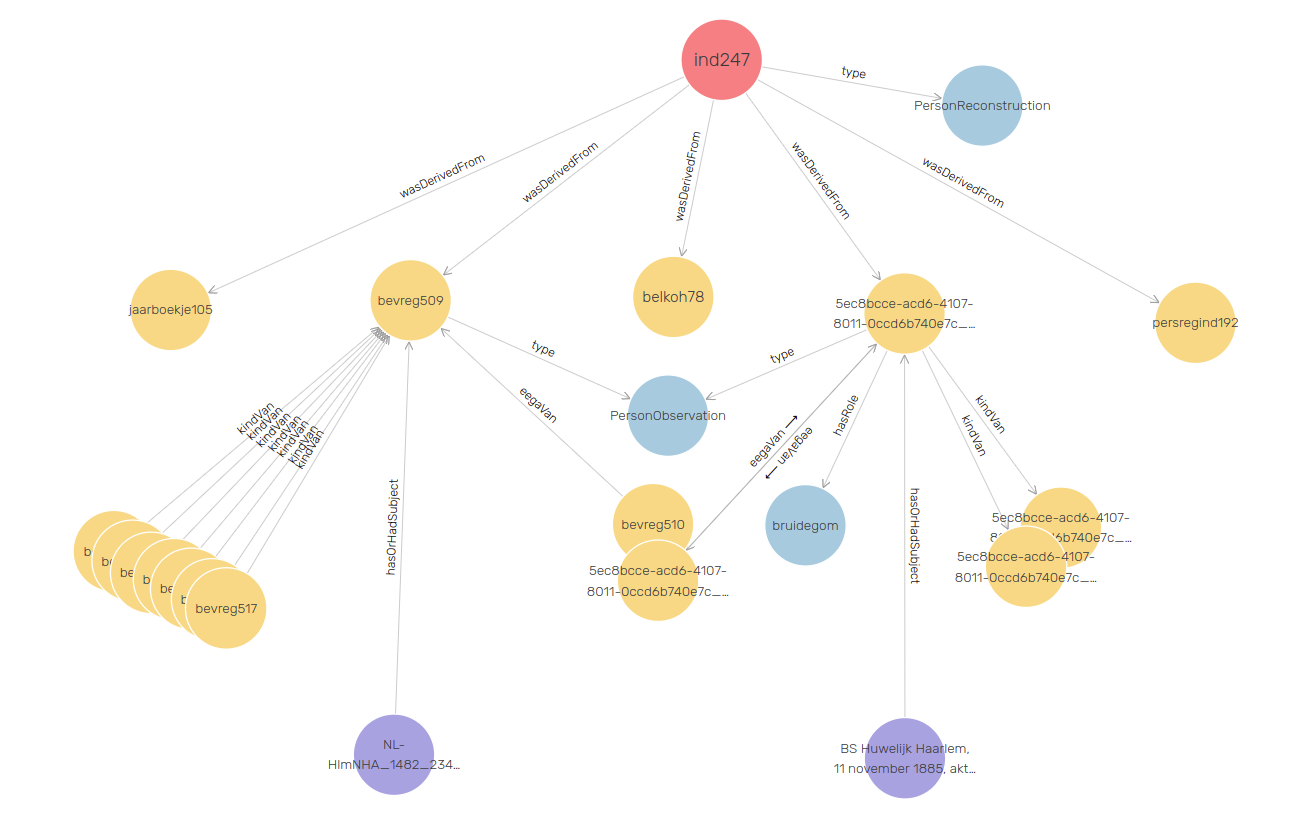
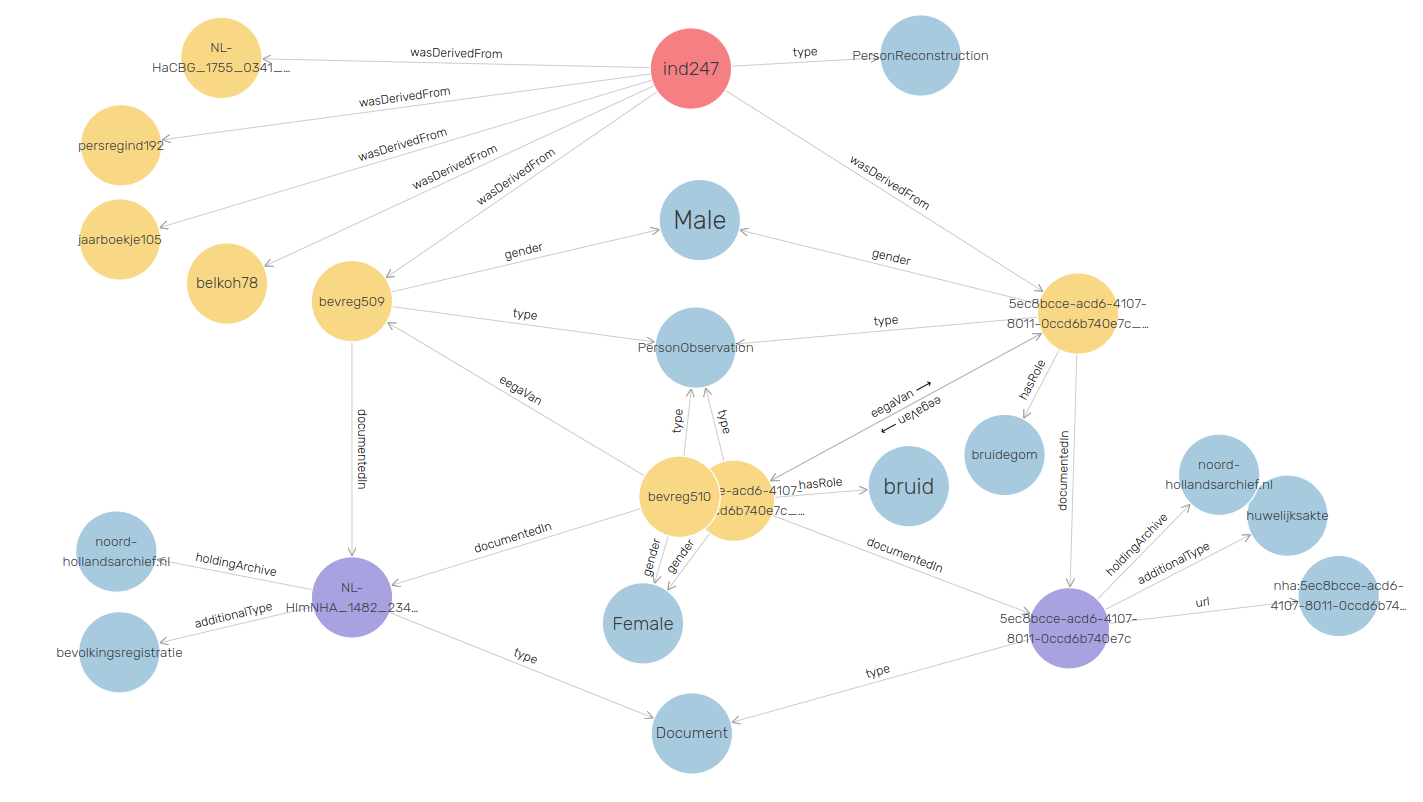
Corrected according to last meeting

diff --git a/examples/abe-bos/A2A-LD-documentation.md b/examples/abe-bos/A2A-LD-documentation.md
@@ -1,0 +1,26 @@
+# A2A-LD
+
+## Uitgangspunten
+- Er is onderscheid tussen een Persoonreconstructie, Persoonsvermelding en Document.
+- We doen niet: locaties en locatievermeldingen.
+
+### Algemeen
+- Er is onderscheid tussen een rol-in-de-bron en relatie-tussen-de-personen. Bv. bij een huwelijksakte rol: getuige, relatie: neef van de bruidegom.
+Rollen: bruid, bruidegom, boreling
+Relatie: vader van de bruid, moeder van de bruidegom, kind van
+*Er moet een waarde (IRI of property) uit een voorgedefinieerde lijst worden gekozen.*
+- datum is van type xsd:date (alleen Gregoriaanse kalender, dus > 1583-01-01)
+
+### Persoonsvermelding
+- Bij een Persoonsvermelding wordt zoveel mogelijk uitgegaan van de bron, dus
+- Namen worden overgenomen zoals op de bron is beschreven. Uitzonderingen: datum ("18 Januarij 1853" wordt vastgelegd als "1853-01-18") en plaatsnaam ("Leijden" wordt vastgelegd als "Leiden")
+- Er is geen sprake van "links ipv strings". Uitzondering: rol en relatie.
+
+### Persoonsreconstructie
+
+### Document
+Alle documenten kunnen door de beherende instelling zo precies worden beschreven als zij zelf noodzakelijk achten. Voor de A2A uitwisseling bieden ze daarnaast tevens een beperkte beschrijving van het document aan met als rdf:type roar:Document. Hierbij moet tenminste worden opgenomen:
+- schema:name (toch niet liever rdfs:label?)
+- beherende instelling
+- schema:additionalType
+Verder: datum, plaats (bij huwelijk verplicht want anders)

diff --git a/examples/abe-bos/README.md b/examples/abe-bos/README.md
@@ -1,4 +1,4 @@
-# Example data about Abe Bos (Joure 1858 - Haarlem 1953), strike leader Railwaystrike 1903
+# Example data about Abe Bos (Joure 1858 - Haarlem 1954), strike leader Railwaystrike 1903
 
 This example contains five sources with data about one person, ie. it contains five PersonObservations. They refer to the same person, ie. the PersonReconstruction.
 
